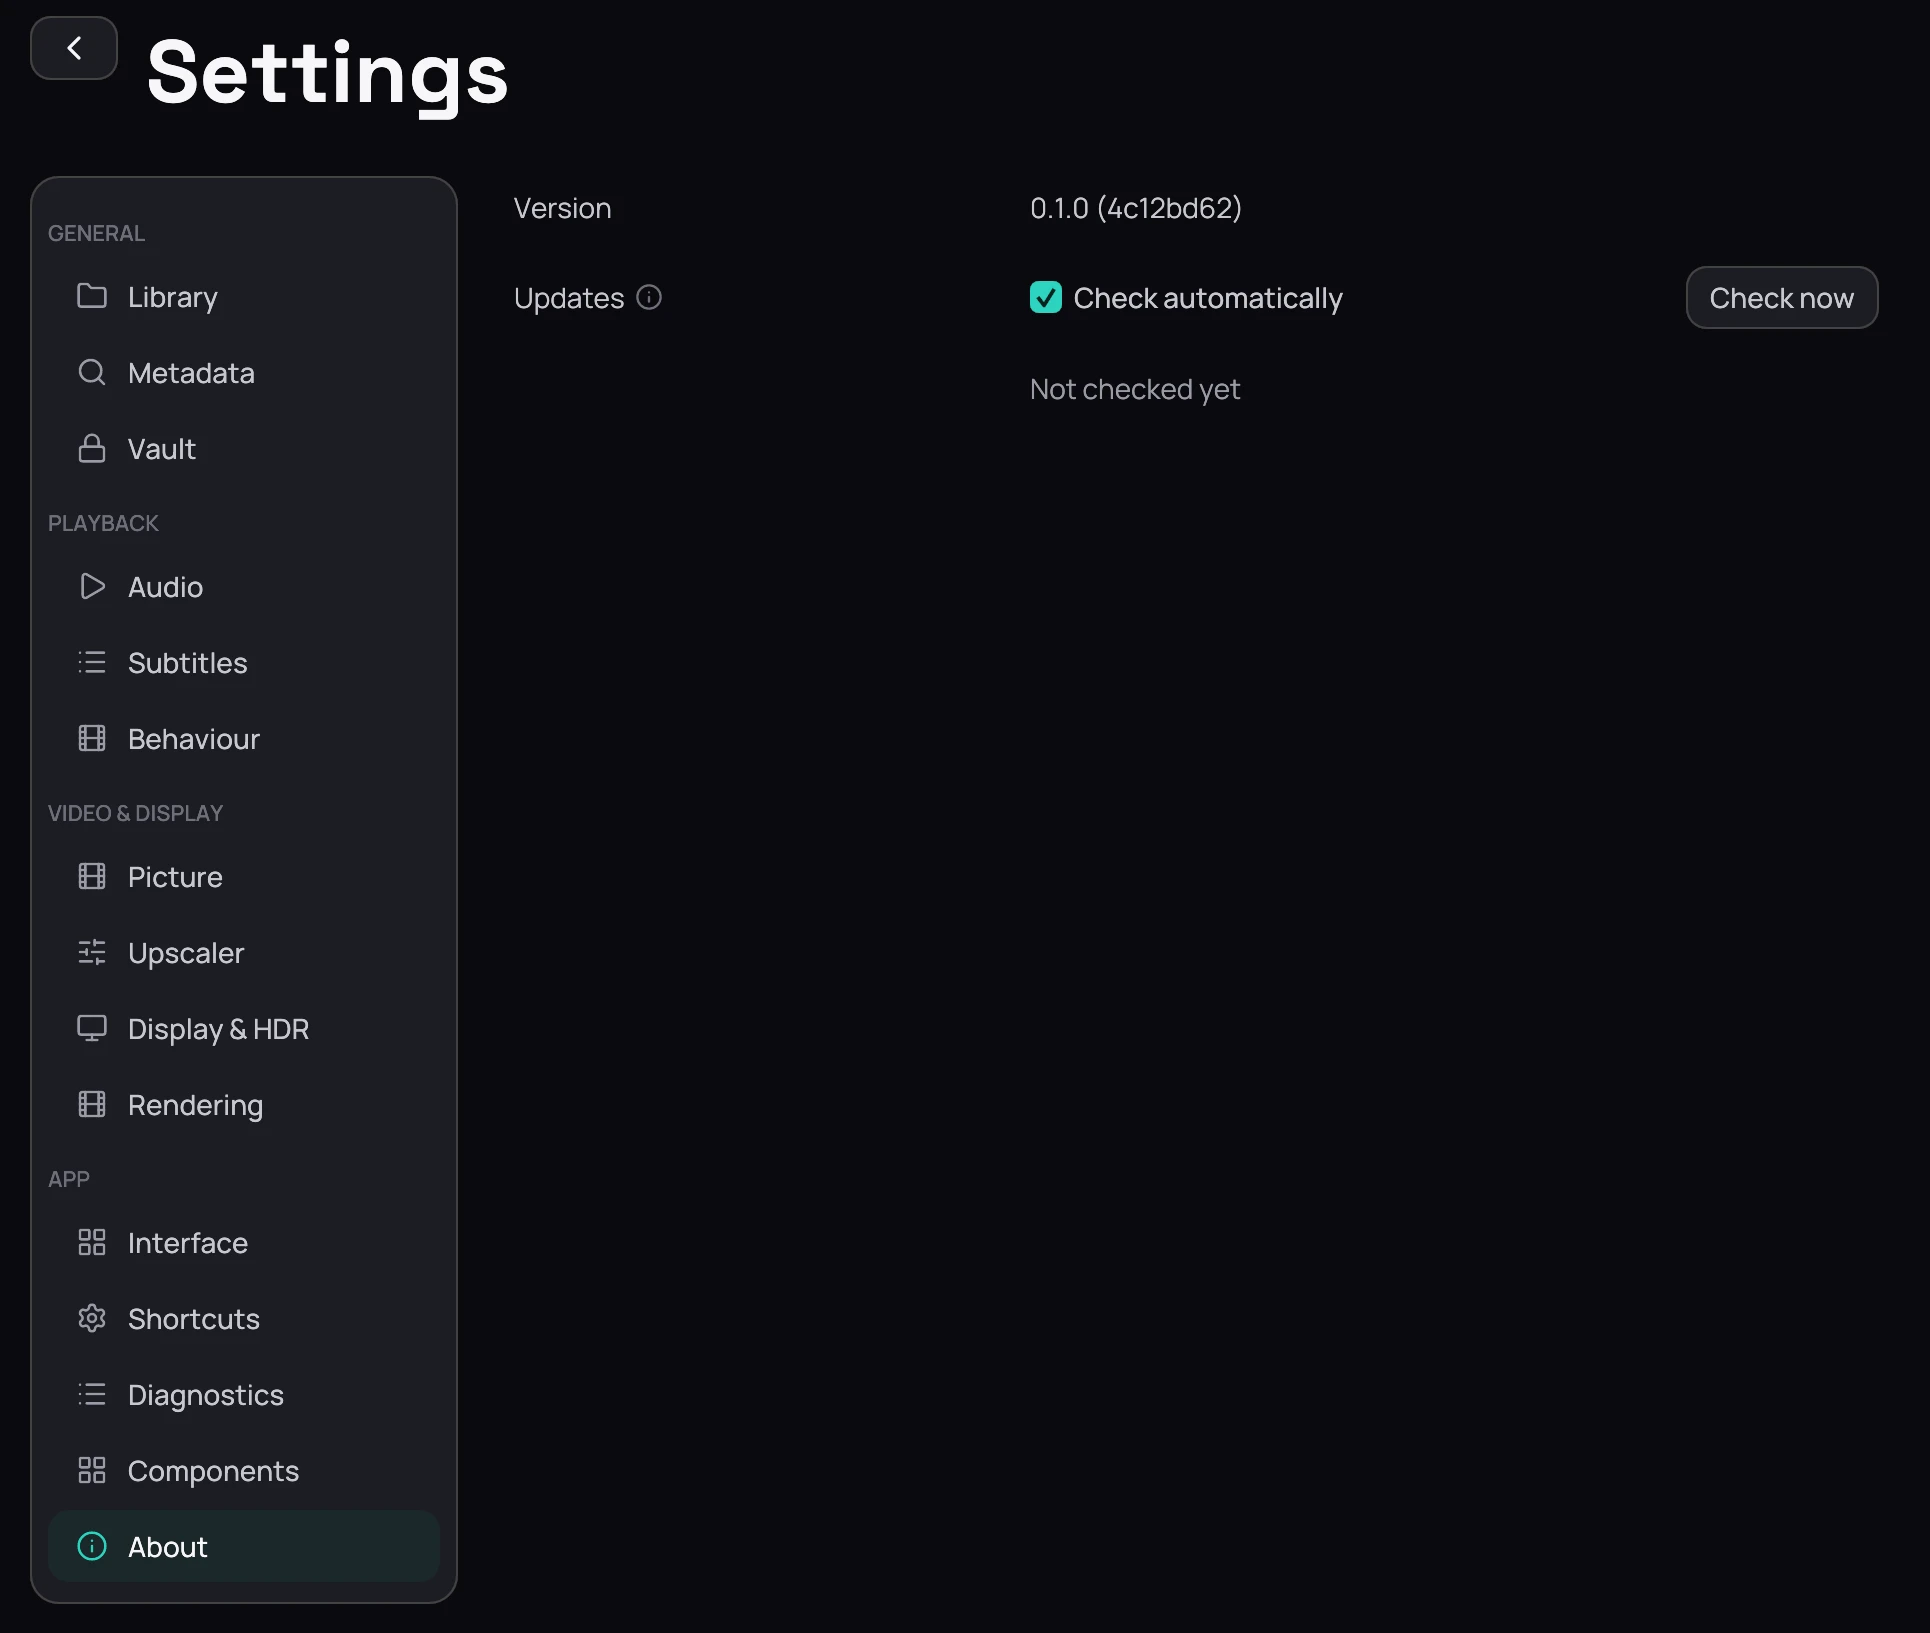
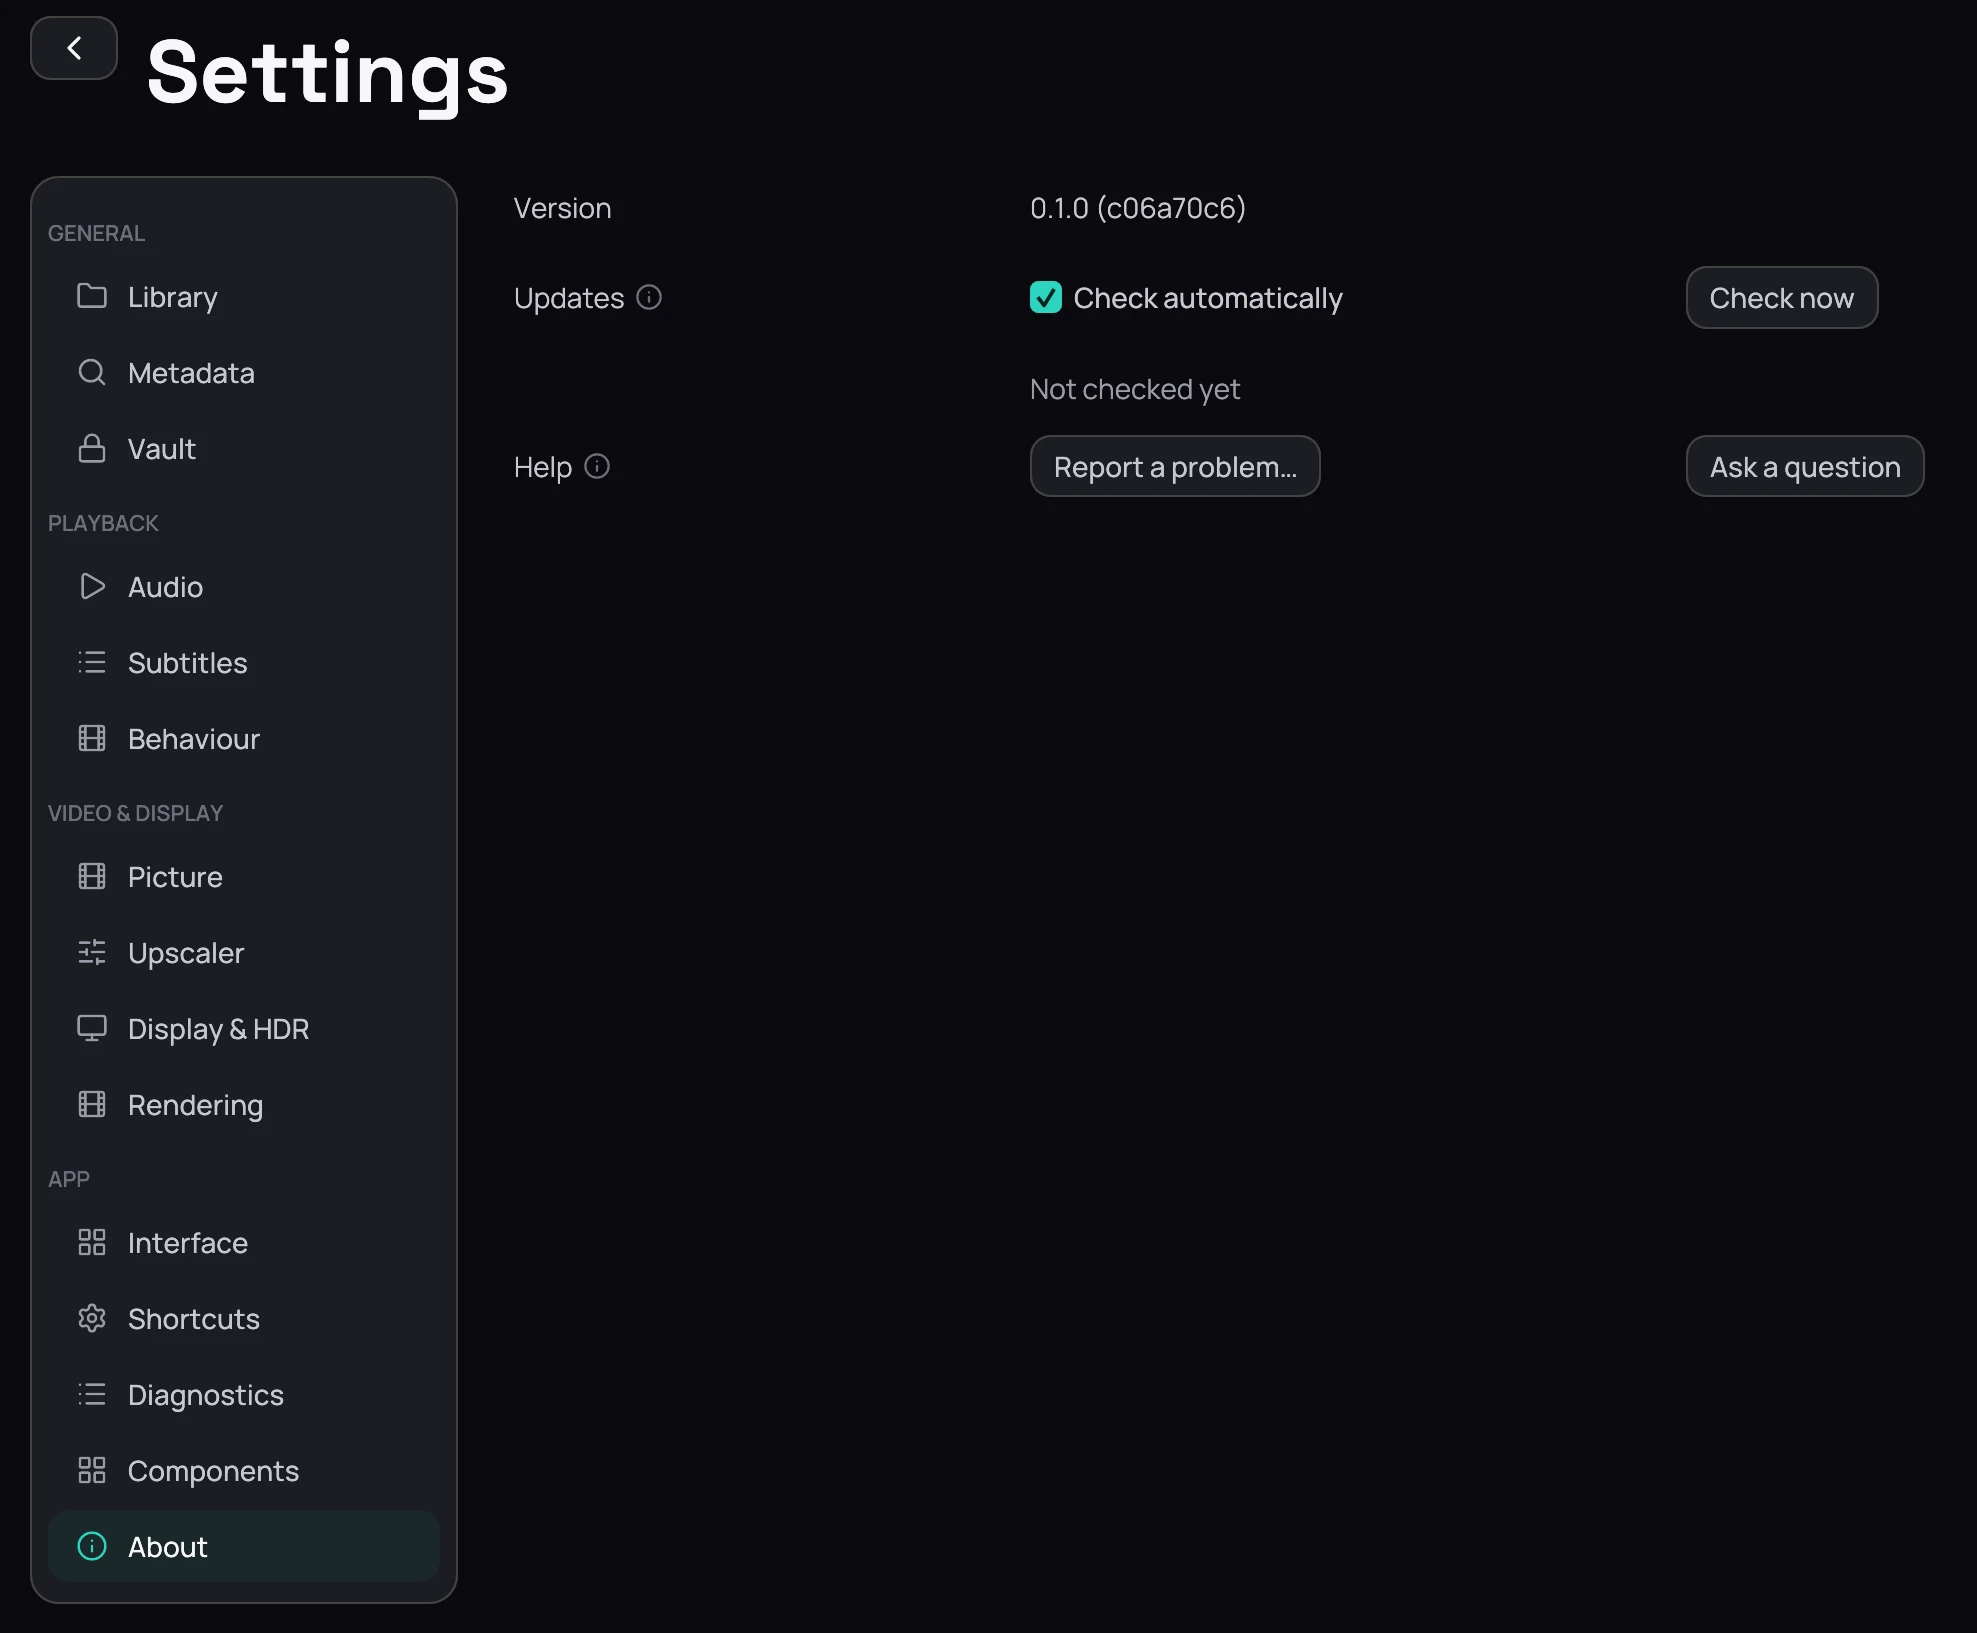
docs: sync user docs from kaveo@b805020

diff --git a/upstream/guide/settings/components.md b/upstream/guide/settings/components.md
@@ -6,26 +6,28 @@ order: 145
 
 ## What it is for
 
-**Settings › Components** shows what this computer has, what Kaveo uses of it — the video
-libraries it brings, the neural upscaler's runtime, the speech transcriber, a local AI, the FFmpeg
-tools — and what each one needs that is missing.
+**Settings › Components** shows what this computer has, what Kaveo uses of it — video libraries,
+the upscaler's runtime, the speech transcriber, a local AI, FFmpeg tools — and what is missing.
 
 ![Settings shown on the Components section: This computer naming the graphics card, then What Kaveo uses with one row per component and its state, and Integration with File manager integration and Command in the terminal.](../images/settings/components.webp)
 
 ## How to use it
 
 1. Read **This computer**: the graphics card every recommendation is made for.
-2. Read each row of **What Kaveo uses**. Under it is the copy in use, or what is recommended for
-   this computer; where something is not possible, the steps to fix it.
-3. Click the list button at the end of a row for its choices: a copy already on the computer,
-   **Leave it out**, or **Back to the default**.
-4. After installing a driver or a program, click **Detect again**.
-5. Under **Integration**, tick **Command in the terminal** to start Kaveo by typing kaveo — see
+2. Read each row of **What Kaveo uses**: the copy in use or the one recommended, and the steps to
+   fix what is not possible.
+3. Click **Install** where offered: Kaveo installs the build that suits this computer, with the
+   model it needs, and tries it first. On Arch, Ollama comes from your system's packages.
+4. Click the list button at the end of a row for its choices: a copy already on the computer,
+   Kaveo's copy in another build, **Leave it out**, or **Back to the default**.
+5. After installing a driver or a program, click **Detect again**.
+6. Under **Integration**, tick **Command in the terminal** to start Kaveo by typing kaveo — see
    [Command line](../command-line.md).
 
 ## Good to know
 
-- A choice is kept at once, without **Save**; some take effect the next time Kaveo starts.
+- A choice is kept at once, without **Save**; some take effect the next time Kaveo starts. An
+  installed component is used at once.
+- If a download fails or does not run here, the copy you had stays in use.
 - **Video decoding libraries** are Kaveo's own unless you choose this computer's or a folder of
-  your own. Kaveo tries them before it restarts on them; if they do not work, it keeps its own and
-  says why under the row.
+  your own; if those do not work, Kaveo keeps its own and says why under the row.

diff --git a/upstream/guide/settings/about.md b/upstream/guide/settings/about.md
@@ -1,23 +1,24 @@
 ---
 title: About
-description: The Kaveo version you are running, and newer ones.
+description: The Kaveo version you are running, newer ones, and where to report a problem.
 order: 150
 ---
 
 ## What it is for
 
-**Settings › About** shows the version you are running and whether a newer Kaveo is out.
+**Settings › About** shows the version you are running, whether a newer Kaveo is out, and where to
+report a problem or ask a question.
 
-![Settings shown on the About section: the rail listing all fifteen sections with About selected last under App, and beside it the Version row, the Updates row with Check automatically ticked and a Check now button, and the line Not checked yet.](../images/settings/about.webp)
+![Settings shown on the About section: the rail listing all fifteen sections with About selected last under App, and beside it the Version row, the Updates row with Check automatically ticked and a Check now button, the line Not checked yet, and the Help row with Report a problem and Ask a question buttons.](../images/settings/about.webp)
 
 ## How to use it
 
-1. Read **Version** and quote it in a bug report, alongside a bundle from
-   [Diagnostics](diagnostics.md).
-2. **Check automatically** asks once at start and once a day; click **Check now** to ask at once.
-3. When a newer Kaveo is out, a badge with its version appears in the top bar. Click **Update now**:
+1. **Check automatically** asks once at start and once a day; click **Check now** to ask at once.
+2. When a newer Kaveo is out, a badge with its version appears in the top bar. Click **Update now**:
    Kaveo downloads it, checks it, closes and starts again on the new version. **What's new** shows its
    notes; **Later** hides the badge for that version.
+3. **Report a problem…** opens the issue form on GitHub in your browser, with the version, your
+   system, graphics card and components already filled in. **Ask a question** opens Discussions.
 
 ## Good to know
 
@@ -26,4 +27,6 @@ order: 150
 - If a film is playing, the update waits until it ends. Installed with a package, Kaveo asks for
   your password once, as your system's own updates do.
 - A copy that was not installed from a release says so, and does not update itself.
-- See [Troubleshooting](../troubleshooting.md) for what to send with a report.
+- The report form never receives a file or folder name, and nothing is sent until you submit it
+  there. Attach a bundle from [Diagnostics](diagnostics.md) — see
+  [Troubleshooting](../troubleshooting.md).

diff --git a/upstream/guide/subtitles/local-models.md b/upstream/guide/subtitles/local-models.md
@@ -14,7 +14,9 @@ Translate on this computer, and let Kaveo listen to the film's original audio.
 
 ### Use a local model
 
-1. Install Ollama or LM Studio, download a model in it, and keep it running.
+1. On Linux, click **Install** on **Local AI (Ollama)** in [Components](../settings/components.md):
+   Kaveo installs Ollama and a model that suits your graphics card, and starts it when needed. Or
+   install Ollama or LM Studio yourself, with a model.
 2. In **Settings › Subtitles › Translation**, choose **Ollama (local)** or **LM Studio (local)** as
    **Provider**.
 3. Clear **Model** to see Ollama's models under *Installed here*, with their sizes; pick one and press
@@ -24,8 +26,10 @@ Translate on this computer, and let Kaveo listen to the film's original audio.
 
 ![The Choose a model menu open under Read the original audio, which reads no model: Browse…, then Download one with eight whisper.cpp models from large-v3, 2.9 GB and recommended, down to tiny, 74 MB](../images/subtitles/local-models-transcriber.webp)
 
-1. Install whisper-cli, from whisper.cpp.
-2. At the end of the **Read the original audio** row, after the path field, click the list button
+1. Click **Install** on the speech transcriber's row in
+   [Components](../settings/components.md): Kaveo picks the build for your graphics card and fetches a
+   model with it. A whisper-cli you installed yourself works too.
+2. To change the model, at the end of the **Read the original audio** row, after the path field, click the list button
    (**Choose a model**) and pick, browse to or download a model.
 3. Press **Save** once the row reads *ready*.
 

diff --git a/upstream/guide/troubleshooting.md b/upstream/guide/troubleshooting.md
@@ -18,8 +18,9 @@ the rest of a bug report.
 3. Click the copy icon on either one to copy its full text.
 4. Raise **Detail level** under **Settings › Diagnostics**, do the thing that failed again, then set
    it back — see [Diagnostics](settings/diagnostics.md).
-5. Click **Export a diagnostic bundle** there for one file to send, and quote the version from
-   **Settings › About** — see [About](settings/about.md).
+5. Click **Export a diagnostic bundle** there for one file to send, then **Report a problem…** in
+   **Settings › About**, which opens the report form already filled in — see
+   [About](settings/about.md).
 
 ## Good to know
 
